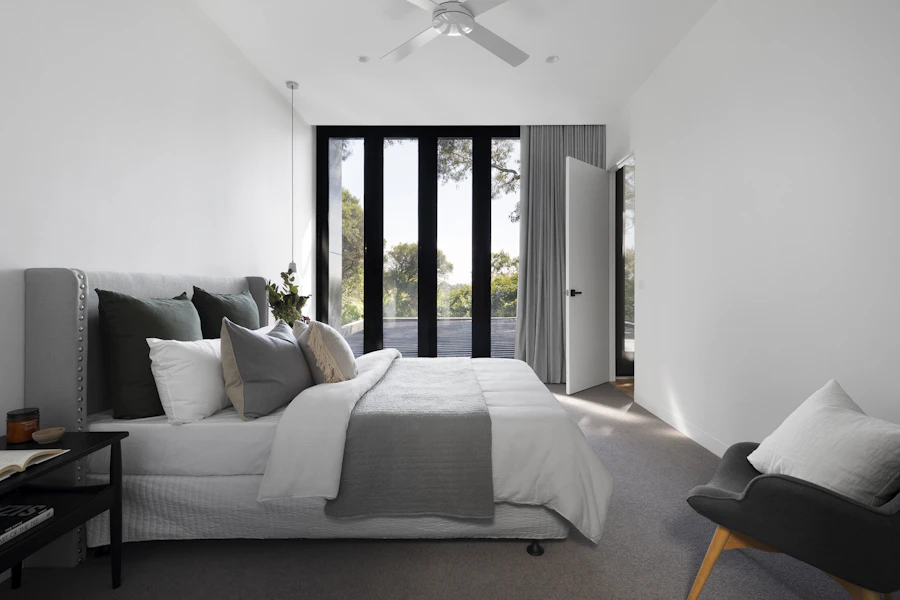
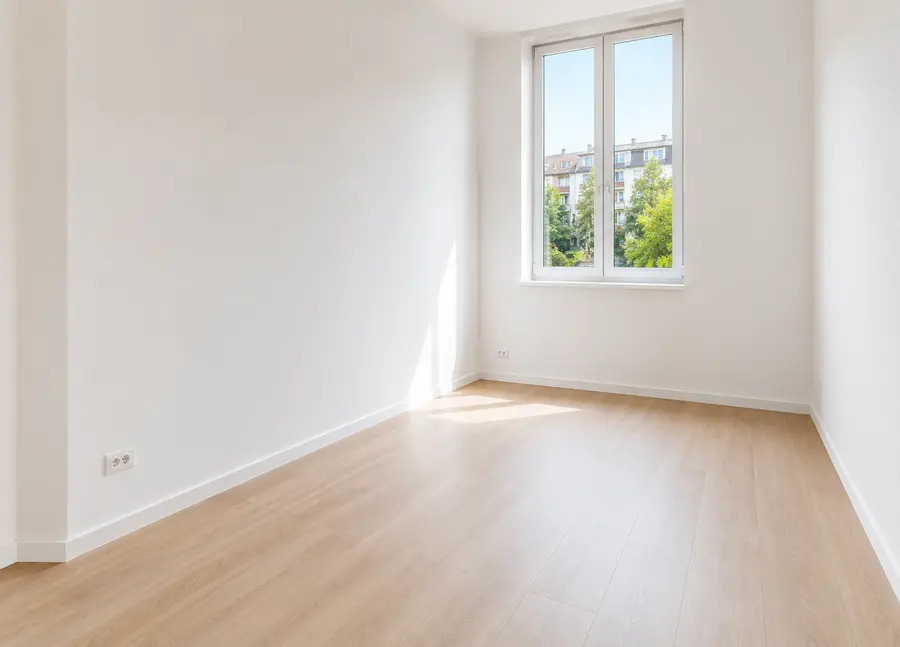
Services picker spacing, longer navbar lockup, real reno-after photo

diff --git a/src/components/Header.tsx b/src/components/Header.tsx
@@ -89,11 +89,11 @@ export function Header({ activeHref, brand, navItems, contact, view }: HeaderPro
           <BrandMark className={`size-10 sm:size-11 ${solid ? "border border-line" : ""}`} />
           <span aria-hidden="true" className="hidden h-8 w-px shrink-0 bg-line sm:block" />
           <span className="min-w-0">
-            <span className="block font-display text-[12px] font-bold uppercase leading-[1.18] tracking-[0.03em] text-navy sm:text-[13px]">
+            <span className="block truncate font-display text-[12px] font-bold uppercase leading-[1.18] tracking-[0.03em] text-navy sm:text-[15px]">
               AE Management
-              <span className="block">Services <span className="text-navy/70">Pte Ltd</span></span>
+              <span className="max-[520px]:block"> Services <span className="text-navy/70">Pte Ltd</span></span>
             </span>
-            <span className="mt-1 hidden border-t border-line pt-1 text-[8.5px] font-semibold uppercase tracking-[0.16em] text-primary-ink/85 sm:block">
+            <span className="mt-1 hidden border-t border-line pt-1 text-[9.5px] font-semibold uppercase tracking-[0.18em] text-primary-ink/85 sm:block">
               Simple. Efficient. Professional.
             </span>
           </span>

diff --git a/src/components/pages/ServicesPage.tsx b/src/components/pages/ServicesPage.tsx
@@ -90,7 +90,7 @@ export function ServicesPage({ booking, pricing }: { booking: BookingContent; pr
 
   return (
     <>
-      <section className="bg-navy-900 pb-36 pt-28 text-white lg:pb-44 lg:pt-36" id="services" aria-labelledby="services-title">
+      <section className="bg-navy-900 pb-16 pt-28 text-white lg:pb-20 lg:pt-36" id="services" aria-labelledby="services-title">
         <Container className="grid gap-6">
           <p className="m-0 text-[13px] font-semibold tracking-[0.08em] text-sky-200 uppercase">Services</p>
           <h1 id="services-title" className="m-0 max-w-3xl font-display text-display font-semibold">
@@ -111,8 +111,8 @@ export function ServicesPage({ booking, pricing }: { booking: BookingContent; pr
         </Container>
       </section>
 
-      <section className="bg-cream pb-8">
-        <Container className="-mt-20 grid gap-5 lg:-mt-24 lg:grid-cols-3">
+      <section className="bg-cream py-10 lg:py-14">
+        <Container className="grid gap-5 lg:grid-cols-3">
           {[
             {
               service: recurring,
